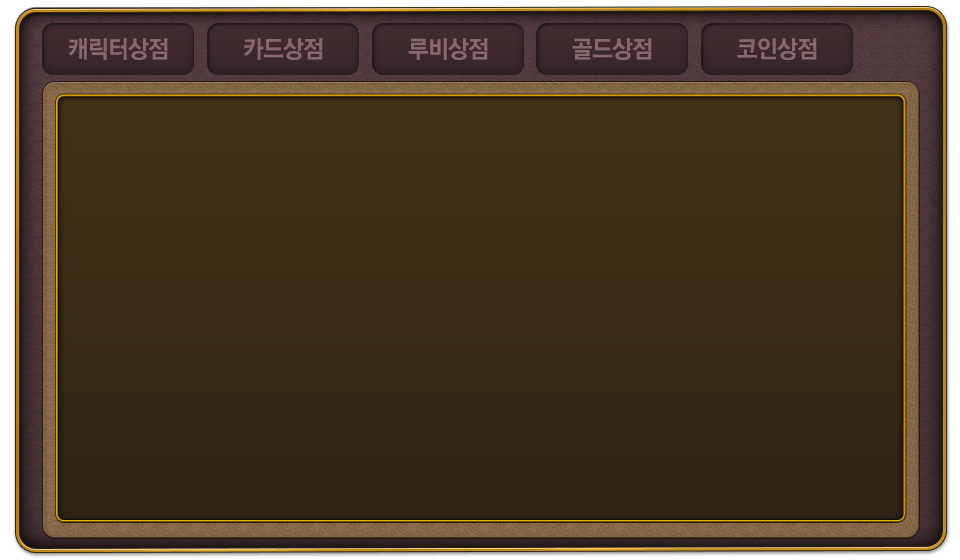
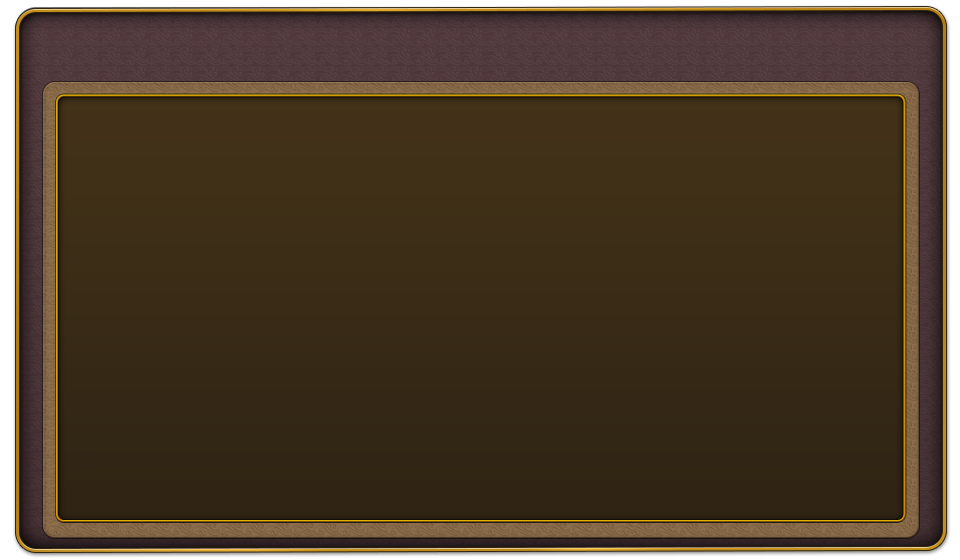
인게임 골드 획득 수정, 상점 틀 수정

Changed region(s): [[0.0312, 0.0304, 0.9062, 0.1518]]

diff --git a/Classes/MainFlowScene.cpp b/Classes/MainFlowScene.cpp
@@ -921,7 +921,7 @@ void MainFlowScene::setBottom()
 	rank_item->setTag(kMainFlowMenuTag_rank);
 	
 	CCMenu* rank_menu = CCMenu::createWithItem(rank_item);
-	rank_menu->setPosition(ccp(-205, n_rank->getContentSize().height/2.f));
+	rank_menu->setPosition(ccp(-200, n_rank->getContentSize().height/2.f));//ccp(-205, n_rank->getContentSize().height/2.f));
 	bottom_case->addChild(rank_menu);
 	
 //	CCSprite* n_friendmanagement = CCSprite::create("mainflow_friendmanagement.png");
@@ -935,6 +935,18 @@ void MainFlowScene::setBottom()
 //	friendmanagement_menu->setPosition(ccp(-139, n_friendmanagement->getContentSize().height/2.f));
 //	bottom_case->addChild(friendmanagement_menu);
 	
+	CCSprite* n_achievement = CCSprite::create("mainflow_achievement.png");
+	CCSprite* s_achievement = CCSprite::create("mainflow_achievement.png");
+	s_achievement->setColor(ccGRAY);
+	
+	CCMenuItem* achievement_item = CCMenuItemSprite::create(n_achievement, s_achievement, this, menu_selector(MainFlowScene::menuAction));
+	achievement_item->setTag(kMainFlowMenuTag_achievement);
+	
+	CCMenu* achievement_menu = CCMenu::createWithItem(achievement_item);
+	achievement_menu->setPosition(ccp(-130, n_achievement->getContentSize().height/2.f));//ccp(-139, n_achievement->getContentSize().height/2.f));//ccp(125, n_achievement->getContentSize().height/2.f));
+	bottom_case->addChild(achievement_menu);
+	
+	
 	CCSprite* n_shop = CCSprite::create("mainflow_shop.png");
 	CCSprite* s_shop = CCSprite::create("mainflow_shop.png");
 	s_shop->setColor(ccGRAY);
@@ -943,7 +955,7 @@ void MainFlowScene::setBottom()
 	shop_item->setTag(kMainFlowMenuTag_shop);
 	
 	CCMenu* shop_menu = CCMenu::createWithItem(shop_item);
-	shop_menu->setPosition(ccp(-73, n_shop->getContentSize().height/2.f));
+	shop_menu->setPosition(ccp(-60, n_shop->getContentSize().height/2.f));//ccp(-73, n_shop->getContentSize().height/2.f));
 	bottom_case->addChild(shop_menu);
 	
 	CCSprite* n_cardsetting = CCSprite::create("mainflow_cardsetting.png");
@@ -954,7 +966,7 @@ void MainFlowScene::setBottom()
 	cardsetting_item->setTag(kMainFlowMenuTag_cardSetting);
 	
 	CCMenu* cardsetting_menu = CCMenu::createWithItem(cardsetting_item);
-	cardsetting_menu->setPosition(ccp(-7, n_cardsetting->getContentSize().height/2.f));
+	cardsetting_menu->setPosition(ccp(10, n_cardsetting->getContentSize().height/2.f));//ccp(-7, n_cardsetting->getContentSize().height/2.f));
 	bottom_case->addChild(cardsetting_menu);
 	
 //	CCSprite* n_gacha = CCSprite::create("mainflow_gacha.png");
@@ -968,16 +980,6 @@ void MainFlowScene::setBottom()
 //	gacha_menu->setPosition(ccp(59, n_gacha->getContentSize().height/2.f));
 //	bottom_case->addChild(gacha_menu);
 	
-	CCSprite* n_achievement = CCSprite::create("mainflow_achievement.png");
-	CCSprite* s_achievement = CCSprite::create("mainflow_achievement.png");
-	s_achievement->setColor(ccGRAY);
-	
-	CCMenuItem* achievement_item = CCMenuItemSprite::create(n_achievement, s_achievement, this, menu_selector(MainFlowScene::menuAction));
-	achievement_item->setTag(kMainFlowMenuTag_achievement);
-	
-	CCMenu* achievement_menu = CCMenu::createWithItem(achievement_item);
-	achievement_menu->setPosition(ccp(-139, n_achievement->getContentSize().height/2.f));//ccp(125, n_achievement->getContentSize().height/2.f));
-	bottom_case->addChild(achievement_menu);
 	
 	CCSprite* n_event = CCSprite::create("mainflow_event.png");
 	CCSprite* s_event = CCSprite::create("mainflow_event.png");

diff --git a/Classes/PlayUI.cpp b/Classes/PlayUI.cpp
@@ -424,7 +424,12 @@ void MyGold::moving ()
 	ing_frame++;
 	
 	setScale(getScale()*dscale);
-	setOpacity(getOpacity() - 4);
+	
+	if(ing_frame > 30)
+	{
+		setOpacity(getOpacity() - 8);
+	}
+	
 	after_position = ccpAdd(getPosition(), ccp(0, r_dy));
 	r_dy += MY_GRAVITY;
 	
@@ -449,8 +454,24 @@ void MyGold::moving ()
 }
 void MyGold::myInit ()
 {
-	initWithFile("gold.png");
+	int start_cut = rand()%6;
+	CCTexture2D* t_texture = CCTextureCache::sharedTextureCache()->addImage("fever_coin.png");
+	initWithTexture(t_texture, CCRectMake(start_cut*30, 0, 30, 30));
+	CCAnimation* t_animation = CCAnimation::create();
+	t_animation->setDelayPerUnit(0.1f);
+	int add_count = 0;
+	for(int i=start_cut;add_count < 6;i=(i+1)%6)
+	{
+		add_count++;
+		t_animation->addSpriteFrameWithTexture(t_texture, CCRectMake(i*30, 0, 30, 30));
+	}
+	CCAnimate* t_animate = CCAnimate::create(t_animation);
+	CCRepeatForever* t_repeat = CCRepeatForever::create(t_animate);
+	runAction(t_repeat);
+	
+//	initWithFile("gold.png");
 	init_position = CCPointZero;
+	setScale(0.4f);
 	setPosition(init_position);
 	
 	i_dy = rand()%3+6;
@@ -523,7 +544,7 @@ void GetGold::myInit (CCPoint t_sp, int t_duration_frame)
 	
 	create_frame = duration_frame/60 + 1;
 	
-	batch_node = CCSpriteBatchNode::create("gold.png");
+	batch_node = CCSpriteBatchNode::create("fever_coin.png");//"gold.png");
 	batch_node->setPosition(t_sp);
 	addChild(batch_node);
 }

diff --git a/Classes/ShopPopup.cpp b/Classes/ShopPopup.cpp
@@ -852,11 +852,11 @@ CCPoint ShopPopup::getContentPosition(int t_tag)
 	else if(t_tag == kSP_MT_card)
 		return_value = ccp(141.5f,256);
 	else if(t_tag == kSP_MT_ruby)
-		return_value = ccp(224,256);
+		return_value = ccp(59,256);//ccp(224,256);
 	else if(t_tag == kSP_MT_gold)
-		return_value = ccp(306,256);
+		return_value = ccp(141.5f,256);//ccp(306,256);
 	else if(t_tag == kSP_MT_heart)
-		return_value = ccp(388.5f,256);
+		return_value = ccp(224,256);//ccp(388.5f,256);
 	else if(t_tag == kSP_MT_content1)
 		return_value = ccp(100,177);
 	else if(t_tag == kSP_MT_content2)
